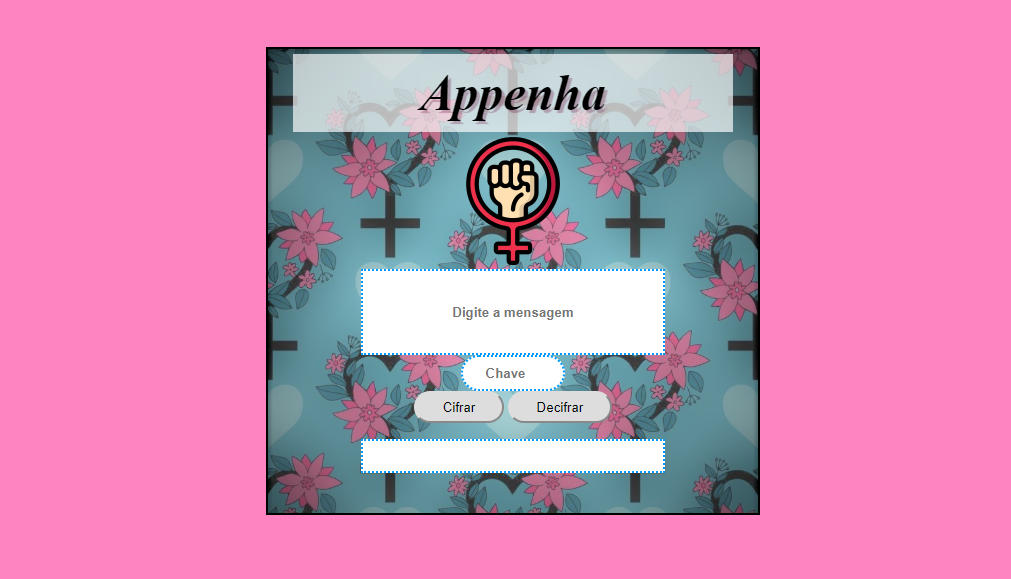
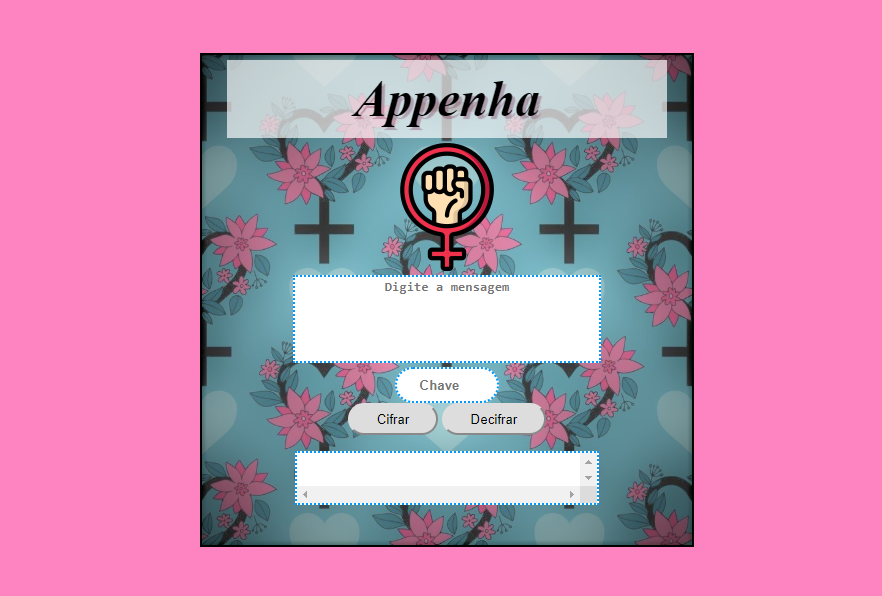
Modificações readme

Changed region(s): [[0.2143, 0.0622, 0.7959, 0.9326], [0.4286, 0.5285, 0.5816, 0.5596]]

diff --git a/src/style.css b/src/style.css
@@ -31,7 +31,8 @@ html {
     border-radius: 200px;
   }
   
-  input[type=text] { 
+  textarea[type=text] { 
+    resize: none;
     width: 300px;
     height: 80px;
     border: 2px dotted   rgb(0, 153, 255);
@@ -52,10 +53,12 @@ html {
     text-align: center;
     border: 2px dotted rgb(0, 153, 255);
     width: 300px;
-    height: 30px;
+    height: 50px;
     display: inline-block;
     background-color: white;
     font-weight: bold;
+    word-break: break-all;
+    overflow: scroll;
   }
 
   #textCipher {

diff --git a/src/index.html b/src/index.html
@@ -12,7 +12,7 @@
           <img src="feminism.png" alt="Minha Figura">
         </div> 
       <div>
-        <input type="text" placeholder="Digite a mensagem" id="text1"/>
+        <textarea type="text" placeholder="Digite a mensagem" id="text1"></textarea>
       </div>
       <div>
         <input type="number" placeholder="Chave" id="desloc"/>

diff --git a/README.md b/README.md
@@ -23,12 +23,15 @@ A interface permite ao usuário:
 * Inserir uma mensagem para ser decifrada;
 * Ver o resultado da mensagem decifrada.
 
-Para proporcionar essa experiência usuário foi utilizado:
+Para proporcionar essa experiência ao usuário foi utilizado:
 
 * HTML  
-Foram criados:  
--Caixas de texto e os botões para cifrar e decifrar as mensagens;  
--Caixa onde aparecerá o resultado da mensagem cifrada e decifrada.  
+-Foram criados:  
+ 1. Caixa de texto utilizando textarea para colocar a mensagem a ser cifrada/decifrada;
+ 2. Caixa para inserir a chave de deslocamento utilizando input;  
+ 3. Parágrafo para exibir o resultado da mensagem cifrada/decifrada.   
+ -Foram criados buttons para os botões cifrar e decifrar.
+  
 * CSS  
 Utilizado para melhorar a estética do site.
 
